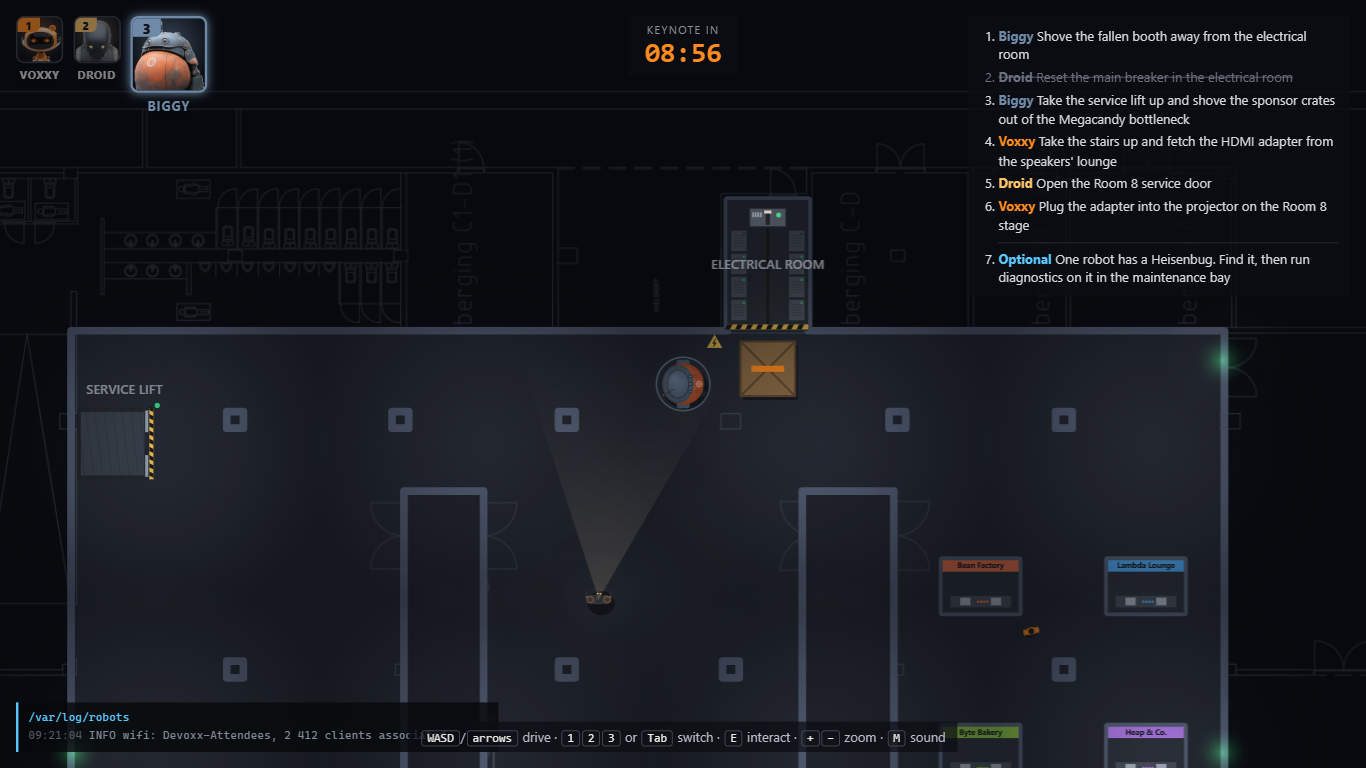
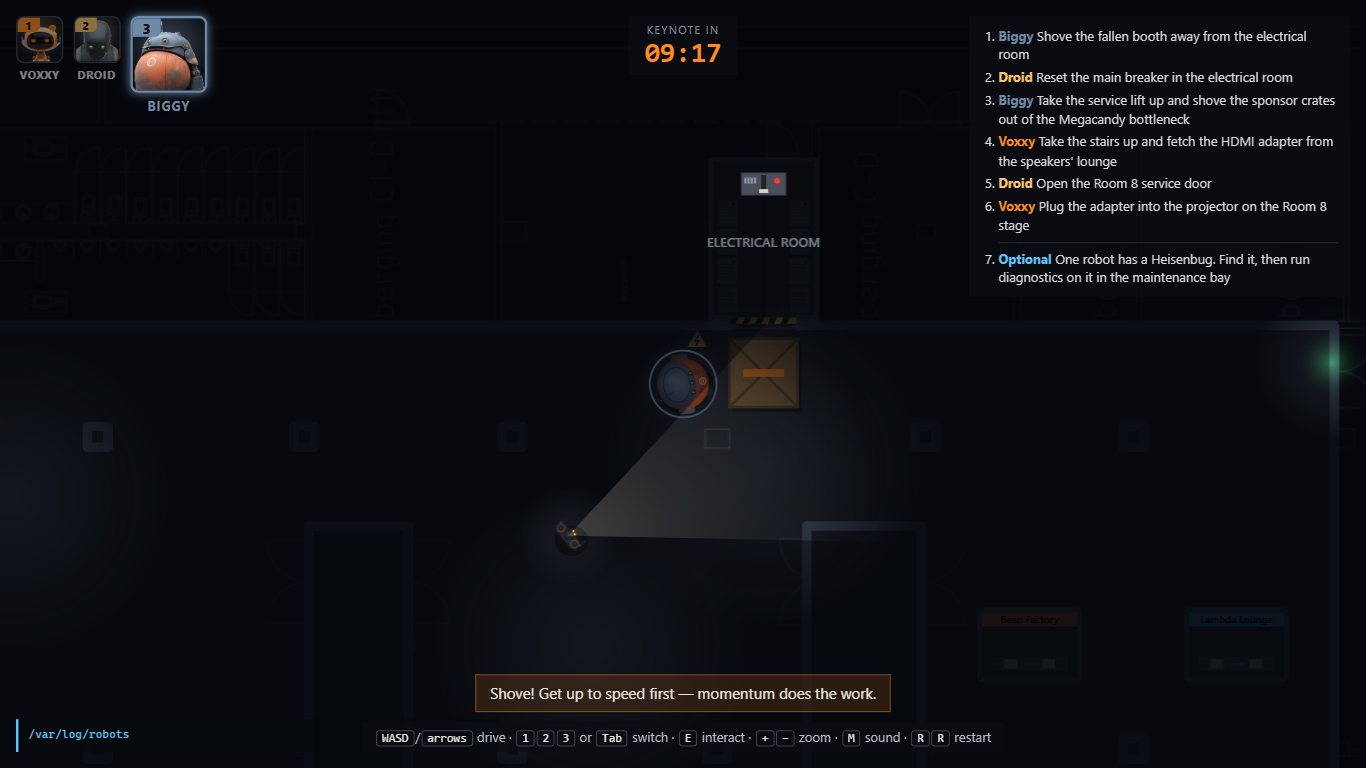
NO_TICKET: Retake the exhibition hall screenshot with the power still off
The old shot had the breaker reset while the booth still blocked the
electrical room, which the game cannot reach.

diff --git a/docs/GENAI.md b/docs/GENAI.md
@@ -429,3 +429,6 @@ screenshot".
 - The corridor screenshot showed Voxxy holding the adapter while the crates still blocked the
   corridor — a state the game cannot reach. It was retaken from a state recorded by that autopilot
   run: power on, crates shoved aside by Biggy, Voxxy carrying the adapter through the gap.
+- Caught by hand afterwards: the exhibition-hall screenshot showed the breaker reset while the
+  booth still blocked the electrical room — also unreachable. Retaken with the power off, Biggy at
+  the booth and Droid's torch on it, from a headless run of the real opening.
